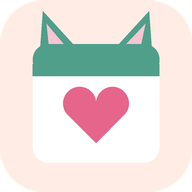
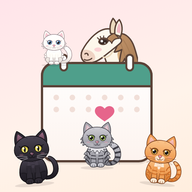
Nouvelle icône : cheval mis en valeur, chats décalés ; vue semaine, mode nuit, cheval corrigé

diff --git a/sw.js b/sw.js
@@ -1,6 +1,6 @@
 // Service worker : l'appli s'ouvre instantanément (fichiers en cache) et se met à jour
 // en arrière-plan. Les données et les photos, elles, viennent toujours de Supabase.
-const CACHE = 'notre-calendrier-v2';
+const CACHE = 'notre-calendrier-v3';
 const SHELL = ['./', 'index.html', 'style.css', 'config.js', 'animals.js', 'api.js', 'excel.js', 'app.js', 'manifest.webmanifest',
   'icons/app-192.png', 'https://cdn.jsdelivr.net/npm/@supabase/supabase-js@2.45.4/dist/umd/supabase.js'];
 
